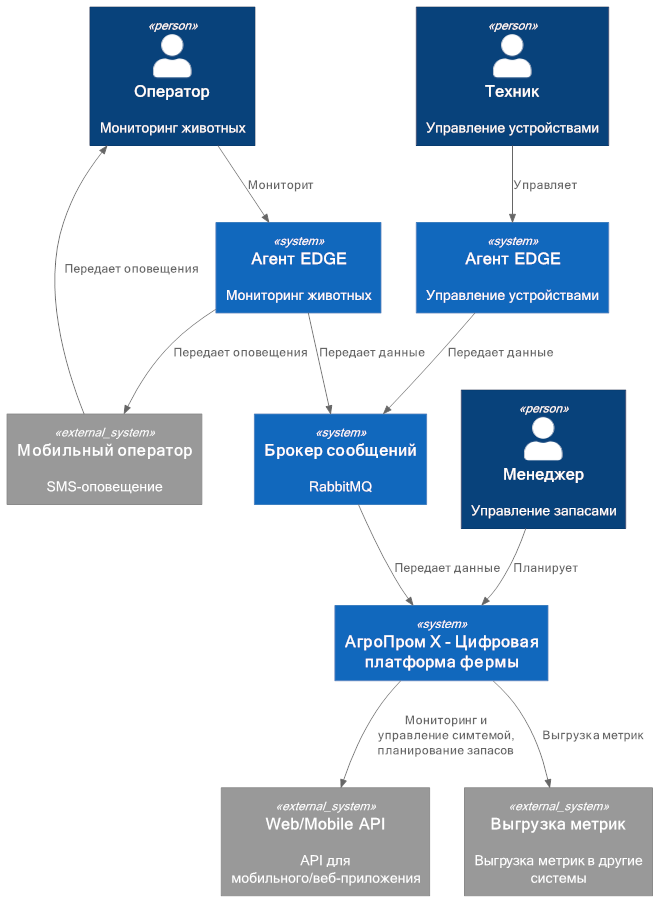
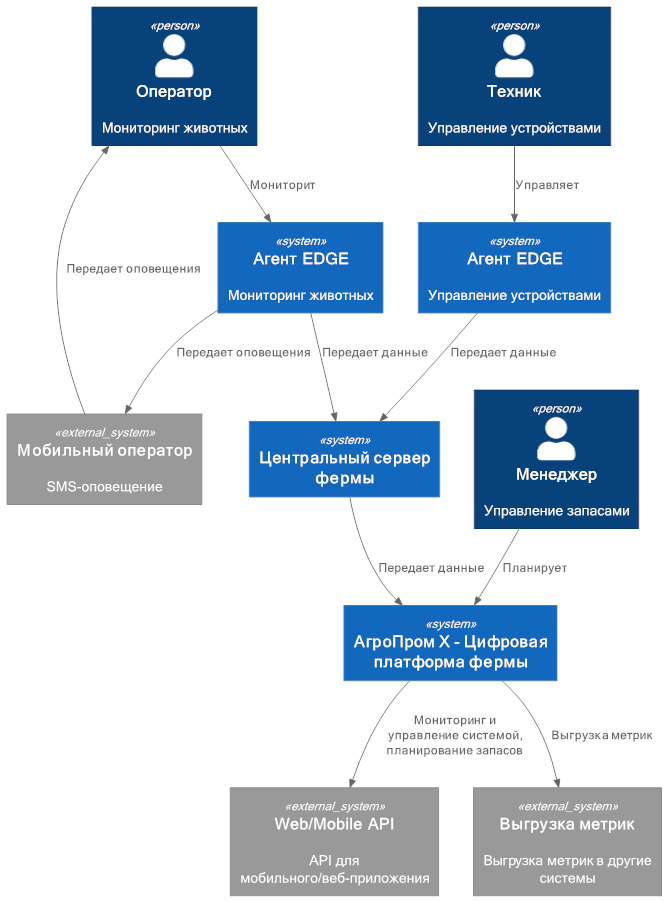
v1.1
Общее описание изменениний находится в файле readme.txt в корне, детальные изменения -  в файлах readme.txt в каждом задании

diff --git a/Task4/ADR_Решение_v1.md b/Task4/ADR_Решение_v1.md
@@ -38,11 +38,13 @@
 
 В проекте используется множество устройств разных производителей для управления и мониторинга устройств на ферме: кормушек, поилок, фильтров для воды. От устройств нужно получать данные и управлять ими. Т.к. у компании АгроПром Х в текущей цифровой платформе уже есть опыт организации управления устроствами с помощью SCADA-системы Ignition, а так же реализация и поддержка кода на Python для разнообразных устройств и датчиков тепличного хозяйства, решено переиспользовать этот подход. Дополнительно потребуется настройка SCADA-системы и разработка драйверов для новых устройств и датчиков.
 В проекте используется видеокамеры с подключенной системой распознавания животных и аномального поведения. У компании АгроПром Х есть опыт реализации агента мониторинга урожая. Решено переиспользовать этот подход, подключив систему распознавания партнера и доработав код Python. 
-Принято решение основное подключение вилеокамер выполнять через LAN. Это позволит гарантировано отслеживать инцеденты при нестабильном WiFi-соединении. Т.к. ферма имеет ограниченную площат и несущие конструкции, монтаж проводной сети предпочтительнее использования 4G-подключения, которое может быть нестабильно. WiFi может использоваться для мониторинга в реальном времени и выгрузки видео партнеру для дообучения модели ИИ (не входит в MVP).     
+Принято решение основное подключение вилеокамер выполнять через LAN. Это позволит гарантировано отслеживать инциденты при нестабильном WiFi-соединении. Т.к. ферма имеет ограниченную площат и несущие конструкции, монтаж проводной сети предпочтительнее использования 4G-подключения, которое может быть нестабильно. WiFi может использоваться для мониторинга в реальном времени и выгрузки видео партнеру для дообучения модели ИИ (не входит в MVP).     
 В проекте используется RFID-метки для животных и датчики состояния животного.  У компании АгроПром Х есть опыт реализации подсистемы мониторинга на базе IoT-шлюза, базы временных рядов и Java-приложения мониторинга. Решено переиспользовать эту подсистему, разработав приложение Java для трекера поголовья на основе существующего приложения треккинга техники.
 В качестве брокера сообщений используется RabbitMQ для передачи данных от агентов на центральный сервер. Это позволит использовать протокол MQTT для взаимодействия с устройствами. По сравнению с Kafka RabbitMQ проще в настройке и сопровождении, не требователен к ресурсам и обеспечивает необходимую производительность.
 Для хранилища структурированных данных выбрана СУБД Click-House, опыт использования и интеграции с которой есть у АгроПром Х. Неструктурированные данные (видеопоток) решено не хранить. Для выгрузки видео партнеру для дообучения модели ИИ будет использоваться видеопоток с камер через WiFi (не входит в MVP).
 В качестве аналитического модуля для отслеживания базовых и дополнительных метрик принято решение переиспользовать аналитический модуль АгроПром Х, написанный на Python, доработав его под новые структуры данных. В качестве системы мониторинга и настройки метрик принято решение переиспользовать Power BI в качестве BI-системы. В аналитическом модуле также необходимо будет доработать выгрузку метрик во внешние системы и поддержку API интеграции с Web/Mobile-приложением.
+Оповещение оператора об инцидентах реализовано в приложении "Трекер поголовья" через интеграцию с GSM-модемом. Это позволит реализовать оперативное оповещение вне зависимости от наличия WiFi/интернет.
+Рабочие места техников и операторов расположены на агентах EDGE, что позволяет исключить зависимость от перебоев связи.
 
 ### Аргументация
 | Критерий         | Обоснование                 |
@@ -54,25 +56,32 @@
 #### Последствия
 
 **✅ Положительные:**
-- Улучшение масштабируемости системы
-- Простота настройки и администирования
+- Возможность оперативного мониторинга, управления и реагирования на инцеденты при отсутствии связи с центральным цервером платформы
+- Улучшение масштабируемости системы за счет кластеризации брокера сообщения
+- Простота настройки и администирования брокера RabitMQ
 - Снижение затрат на поддержку и ресурсы
 **⚠ Негативные:**
+- Отсутствие централизованного управления пользователями и биллинга расходов на SMS-оповещение
 - Необходимость изучения RabbitMQ
 - Снижение максимальной пропускной способности
+- Необходимость низкоуровневой интеграции в GSM-модемами
 
 **↗ Зависимости:**
 - Требуется обновить сервисы агентов
 - Требуется перенастроить хранилище данных 
+- Требуется разработать модуль интеграции с GSM-модемом
 
 ### <a name="_bjrr7veeh80c"></a>**Альтернативы**
-При более высокой нагрузке в качестве брокера лучше использовать Kafka (второй вариант).
+При более высокой нагрузке в качестве брокера лучше использовать брокер Kafka.
+Рабочие места операторов и техников можно реализовать на сервере головной компании, с подключением через мобильное приложение. Это даст возможность централизовать систему аутентификации, в дальнейшем интегрировать с приложение с ERP-системой, но снизит опреативность мониторинга и управления устройствами при проблемах со связью.
+Оповещение операторов об инцидентах можно реализовать на сервере головной компании, с передачей сообщений по SMPP. Это снизит затраты на оповещение, позволит отслеживать биллинг оператора, но может критически снизить оперативность оповещения при проблемах со связью.
 
 **Недостатки, ограничения, риски**
-Т.к. в МVP отсутствует веб-портал, разные типы пользователей работают с разными приложениями, нет единой системы аутентификации.
-Т.к. в МVP отсутствует мобильное приложение, используется более дорогой способ оповещения через SMS вместо пуш-уведомлений.
+Разные типы пользователей работают с разными приложениями, нет единой системы аутентификации, нет централизованной системы управления пользователями.
+При использовании GSM-модемов нНет возможности снижения затрат на оповещение посредством SMPP-интеграции с провайдерос сотовой связи или перехода на Push-уведомления в мобильном приложении. Нет единой системы биллинга и контроля за расходами на оповещение.
 
 #### Рекомендации
+Рекомендую реализовать рабочие места оперативных сотрудников и оповещение об инцидентах на агентах. В случае продолжительного отсутствиия связи при централизации оповещения и рабочих мест оперативное управление может стать невозможным. В то же время решение можно будет в дальнейшем дополнить вторым контуром управления через центральную платформу, отсавив текущее решение в качестве резервного на случай проблем с интернетом.   
 Рекомендую использовать в качестве брокера сообщений RabbitMQ
 
 

diff --git a/Task4/ADR_Решение_v2.md b/Task4/ADR_Решение_v2.md
@@ -38,38 +38,48 @@
 
 В проекте используется множество устройств разных производителей для управления и мониторинга устройств на ферме: кормушек, поилок, фильтров для воды. От устройств нужно получать данные и управлять ими. Т.к. у компании АгроПром Х в текущей цифровой платформе уже есть опыт организации управления устроствами с помощью SCADA-системы Ignition, а так же реализация и поддержка кода на Python для разнообразных устройств и датчиков тепличного хозяйства, решено переиспользовать этот подход. Дополнительно потребуется настройка SCADA-системы и разработка драйверов для новых устройств и датчиков.
 В проекте используется видеокамеры с подключенной системой распознавания животных и аномального поведения. У компании АгроПром Х есть опыт реализации агента мониторинга урожая. Решено переиспользовать этот подход, подключив систему распознавания партнера и доработав код Python. 
-Принято решение основное подключение вилеокамер выполнять через LAN. Это позволит гарантировано отслеживать инцеденты при нестабильном WiFi-соединении. Т.к. ферма имеет ограниченную площат и несущие конструкции, монтаж проводной сети предпочтительнее использования 4G-подключения, которое может быть нестабильно. WiFi может использоваться для мониторинга в реальном времени и выгрузки видео партнеру для дообучения модели ИИ (не входит в MVP).     
+Принято решение основное подключение видеокамер выполнять через LAN. Это позволит гарантировано отслеживать инциденты при нестабильном WiFi-соединении. Т.к. ферма имеет ограниченную площат и несущие конструкции, монтаж проводной сети предпочтительнее использования 4G-подключения, которое может быть нестабильно. WiFi может использоваться для мониторинга в реальном времени и выгрузки видео партнеру для дообучения модели ИИ (не входит в MVP).     
 В проекте используется RFID-метки для животных и датчики состояния животного.  У компании АгроПром Х есть опыт реализации подсистемы мониторинга на базе IoT-шлюза, базы временных рядов и Java-приложения мониторинга. Решено переиспользовать эту подсистему, разработав приложение Java для трекера поголовья на основе существующего приложения треккинга техники.
-В качестве брокера сообщений используется Kafka для передачи данных от агентов на центральный сервер. По сравнению с RabbitMQ  обеспечивает более высокую пропускную способность.
+В качестве брокера сообщений используется RabbitMQ для передачи данных от агентов на центральный сервер. Это позволит использовать протокол MQTT для взаимодействия с устройствами. По сравнению с Kafka RabbitMQ проще в настройке и сопровождении, не требователен к ресурсам и обеспечивает необходимую производительность.
 Для хранилища структурированных данных выбрана СУБД Click-House, опыт использования и интеграции с которой есть у АгроПром Х. Неструктурированные данные (видеопоток) решено не хранить. Для выгрузки видео партнеру для дообучения модели ИИ будет использоваться видеопоток с камер через WiFi (не входит в MVP).
 В качестве аналитического модуля для отслеживания базовых и дополнительных метрик принято решение переиспользовать аналитический модуль АгроПром Х, написанный на Python, доработав его под новые структуры данных. В качестве системы мониторинга и настройки метрик принято решение переиспользовать Power BI в качестве BI-системы. В аналитическом модуле также необходимо будет доработать выгрузку метрик во внешние системы и поддержку API интеграции с Web/Mobile-приложением.
+Оповещение оператора об инцидентах реализовано централизовано на сервере платформы, что позволит использовать протокол интеграции SMPP с оператором сотовой связи, в дальнейшем перейти на Push-уведомления, а так же поволит отслеживать биллинг мобильного оператора и управлять расходами на оповещение.
+Рабочие места техников и операторов реализуются на сервере платформы, что позволит централихованно управлять пользователями.
 
 ### Аргументация
 | Критерий         | Обоснование                 |
 |------------------|-----------------------------|
-| Functional  | Поддержка отложенной обработки и повторных попыток  |
-| Performance |	Обеспечивает высокую пропускную способность |
-| Reliability | Наличие DLQ гарантирует, что сообщения не потеряются |
+| Functional  | Возможность централизованного управления пользователями и биллинга расходов на экстренное оповещение. Возможность удаленого мониторинга и управления устройствами |
+| Performance |	Высокая пропускная способность брокера сообщений |
+| Reliability | Использование брокера и наличие DLQ брокера гарантирует, что сообщения не потеряются |
 
 #### Последствия
 
 **✅ Положительные:**
-- Улучшение масштабируемости системы
-- Изместная и применяемая технология
+- Возможность удаленного оперативного мониторинга и управления
+- Возможность управления расходами на экстренное оповещение, перехода на push-уведомления
+
 **⚠ Негативные:**
-- Более высокая стоимость настройки и администрирования
-- Необходимость использования ETL для передачи данных
+- Невозможность оперативного мониторинга и управления в случае длительного отсутствия связи 
+- Невозможность экстренного оповещения в случае длительного отсутствия связи 
+- Необходимость 
+
+**↗ Зависимости:**
+- Требуется обновить сервисы агентов
+- Требуется перенастроить хранилище данных 
+- Требуется разработать дополнительное приложения для организации рабочих мест для операторов и техников
+- Требуется разработать дополнительный компонет интеграции с сервером мобильного оператора по SMPP.
 
 
 ### <a name="_bjrr7veeh80c"></a>**Альтернативы**
-Использование RabbitMQ (первый вариант) позволит снизить затраты на администрирование и разработку.
+При продолжительных периодах отсутствия связи перенос функциональности оперативного мониторинга и управлениия на платформу может привести к потере контроля и финансовым рискам. В этом случае лучше использовать первый вариант.
 
 **Недостатки, ограничения, риски**
-Т.к. в МVP отсутствует веб-портал, разные типы пользователей работают с разными приложениями, нет единой системы аутентификации.
-Т.к. в МVP отсутствует мобильное приложение, используется более дорогой способ оповещения через SMS вместо пуш-уведомлений.
+При продолжительных периодах отсутствия связи оперативное управление и мониторинг будут недоступны.
+При продолжительных периодах отсутствия связи экстренное оповещение будет недоступно.
 
 #### Рекомендации
-Рекомендую использовать в качестве брокера сообщений RabbitMQ
+Рекомендую в МVP использовать первый вариант решения с локализацией рабочих мест операторов и техникоов и оповещения на агентах. В качестве брокера сообщений RabbitMQ
 
 
 

diff --git a/Task2/ADR_Контейнеры.md b/Task2/ADR_Контейнеры.md
@@ -37,18 +37,22 @@
 
 В проекте используется множество устройств разных производителей для управления и мониторинга устройств на ферме: кормушек, поилок, фильтров для воды. От устройств нужно получать данные и управлять ими. Т.к. у компании АгроПром Х в текущей цифровой платформе уже есть опыт организации управления устроствами с помощью SCADA-системы Ignition, а так же реализация и поддержка кода на Python для разнообразных устройств и датчиков тепличного хозяйства, решено переиспользовать этот подход. Дополнительно потребуется настройка SCADA-системы и разработка драйверов для новых устройств и датчиков.
 В проекте используется видеокамеры с подключенной системой распознавания животных и аномального поведения. У компании АгроПром Х есть опыт реализации агента мониторинга урожая. Решено переиспользовать этот подход, подключив систему распознавания партнера и доработав код Python. 
-Принято решение основное подключение вилеокамер выполнять через LAN. Это позволит гарантировано отслеживать инцеденты при нестабильном WiFi-соединении. Т.к. ферма имеет ограниченную площат и несущие конструкции, монтаж проводной сети предпочтительнее использования 4G-подключения, которое может быть нестабильно. WiFi может использоваться для мониторинга в реальном времени и выгрузки видео партнеру для дообучения модели ИИ (не входит в MVP).     
+Принято решение основное подключение вилеокамер выполнять через LAN. Это позволит гарантировано отслеживать инциденты при нестабильном WiFi-соединении. Т.к. ферма имеет ограниченную площат и несущие конструкции, монтаж проводной сети предпочтительнее использования 4G-подключения, которое может быть нестабильно. WiFi может использоваться для мониторинга в реальном времени и выгрузки видео партнеру для дообучения модели ИИ (не входит в MVP).     
 В проекте используется RFID-метки для животных и датчики состояния животного.  У компании АгроПром Х есть опыт реализации подсистемы мониторинга на базе IoT-шлюза, базы временных рядов и Java-приложения мониторинга. Решено переиспользовать эту подсистему, разработав приложение Java для трекера поголовья на основе существующего приложения треккинга техники.
 В качестве брокера сообщений используется RabbitMQ для передачи данных от агентов на центральный сервер. Это позволит использовать протокол MQTT для взаимодействия с устройствами. По сравнению с Kafka RabbitMQ проще в настройке и сопровождении, не требователен к ресурсам и обеспечивает необходимую производительность.
 Для хранилища структурированных данных выбрана СУБД Click-House, опыт использования и интеграции с которой есть у АгроПром Х. Неструктурированные данные (видеопоток) решено не хранить. Для выгрузки видео партнеру для дообучения модели ИИ будет использоваться видеопоток с камер через WiFi (не входит в MVP).
 В качестве аналитического модуля для отслеживания базовых и дополнительных метрик принято решение переиспользовать аналитический модуль АгроПром Х, написанный на Python, доработав его под новые структуры данных. В качестве системы мониторинга и настройки метрик принято решение переиспользовать Power BI в качестве BI-системы. В аналитическом модуле также необходимо будет доработать выгрузку метрик во внешние системы и поддержку API интеграции с Web/Mobile-приложением.
+Оповещение оператора об инцидентах реализовано в приложении "Трекер поголовья через интеграцию с GSM-модемом". Это позволит реализовать оперативное оповещение вне зависимости от наличия WiFi/интернет.
+Рабочие места техников и операторов расположены на агентах EDGE, что позволяет исключить зависимость от перебоев связи.
 
 ### <a name="_bjrr7veeh80c"></a>**Альтернативы**
-При более высокой нагрузке в качестве брокера лучше использовать Kafka (второй вариант).
+При более высокой нагрузке в качестве брокера лучше использовать брокер Kafka.
+Рабочие места операторов и техников можно реализовать на сервере головной компании, с подключением через мобильное приложение. Это даст возможность централизовать систему аутентификации, в дальнейшем интегрировать с приложение с ERP-системой, но снизит опреативность мониторинга и управления устройствами при проблемах со связью.
+Оповещение операторов об инцидентах можно реализовать на сервере головной компании, с передачей сообщений по SMPP. Это снизит затраты на оповещение, позволит отслеживать биллинг оператора, но может критически снизить оперативность оповещения при проблемах со связью.
 
 **Недостатки, ограничения, риски**
-Т.к. в МVP отсутствует веб-портал, разные типы пользователей работают с разными приложениями, нет единой системы аутентификации.
-Т.к. в МVP отсутствует мобильное приложение, используется более дорогой способ оповещения через SMS вместо пуш-уведомлений.
+Разные типы пользователей работают с разными приложениями, нет единой системы аутентификации, нет централизованной системы управления пользователями.
+При использовании GSM-модемов нНет возможности снижения затрат на оповещение посредством SMPP-интеграции с провайдерос сотовой связи или перехода на Push-уведомления в мобильном приложении. Нет единой системы биллинга и контроля за расходами на оповещение.
 
 
 

diff --git a/Task1/ADR_Контекст.md b/Task1/ADR_Контекст.md
@@ -30,13 +30,13 @@
 
 ![Вариант №2](С1_Диаграмма_контеста_v2.png)
 
-В первом варианте в качестве брокера сообщений используется RabbitMQ для передачи данных от агентов на центральный сервер. Это позволит использовать протоеол MQTT для взаимодействия с устройствами. По сравнению с Kafka RabbitMQ проще в настройке и сопровождении, не требователен к ресурсам и обеспечивает необходимую производительность.
+В первом варианте оперативное управление реализуется на ферме с подключением оператора (мониторинг состояния животных) и техника (управление устройствами фермы) на агентах. Это гарантирует оперативность реакции на инциденты даже при отсутствии интернета и связи с центральным сервером фермы (нестабильный WiFi). Центральный сервер фермы отвечает за передачу данных на общую платформу. Оповещение оператора по SMS также реализуется на агенте. Рабочее место менеджера организовано на цифровой платформе, т.к. заказ кормов и бизнес-аналитика не являются частью оперативного реагирования на инцеденты.
 ### <a name="_bjrr7veeh80c"></a>**Альтернативы**
-При более высокой нагрузке в качестве брокера лучше использовать Kafka (второй вариант).
+В качестве альтернативы рабочие места оператора и техника размещаются на платформе, что упрощает решение, но создает риски несвоевременной реакции на инцеденты при проблемах со связью. 
 
 **Недостатки, ограничения, риски**
-Т.к. в МVP отсутствует веб-портал, разные типы пользователей работают с разными приложениями, нет единой системы аутентификации.
-Т.к. в МVP отсутствует мобильное приложение, используется более дорогой способ оповещения через SMS вместо пуш-уведомлений.
+Разные типы пользователей работают с разными приложениями, нет единой системы аутентификации.
+Подключение оповещения на агенте предполагает более дорогой способ оповещения через SMS вместо пуш-уведомлений, отсутствует централизация оповещения. 
 
 
 
